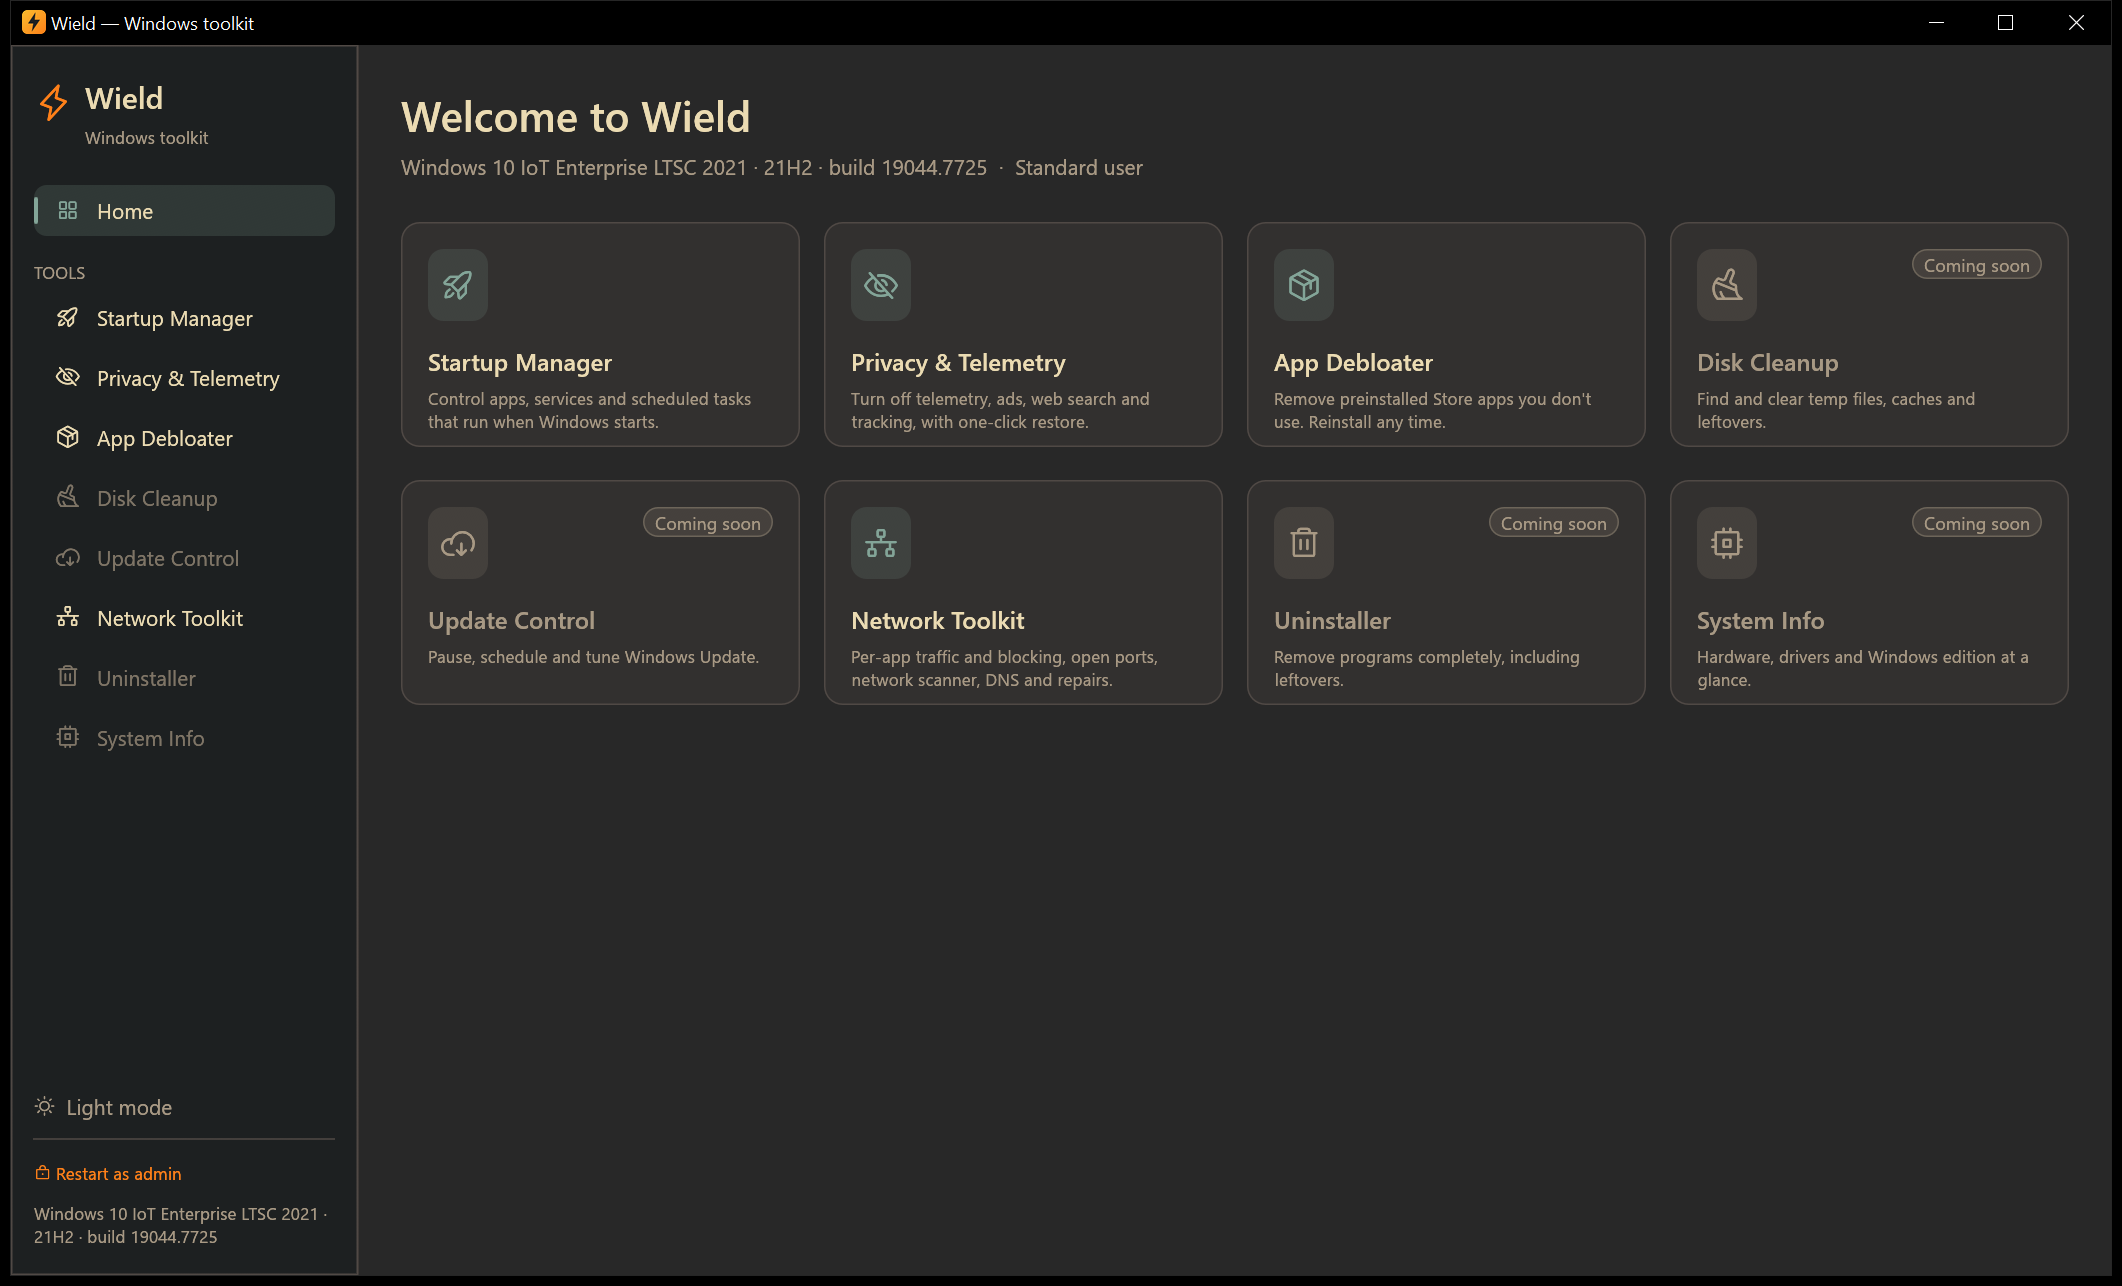
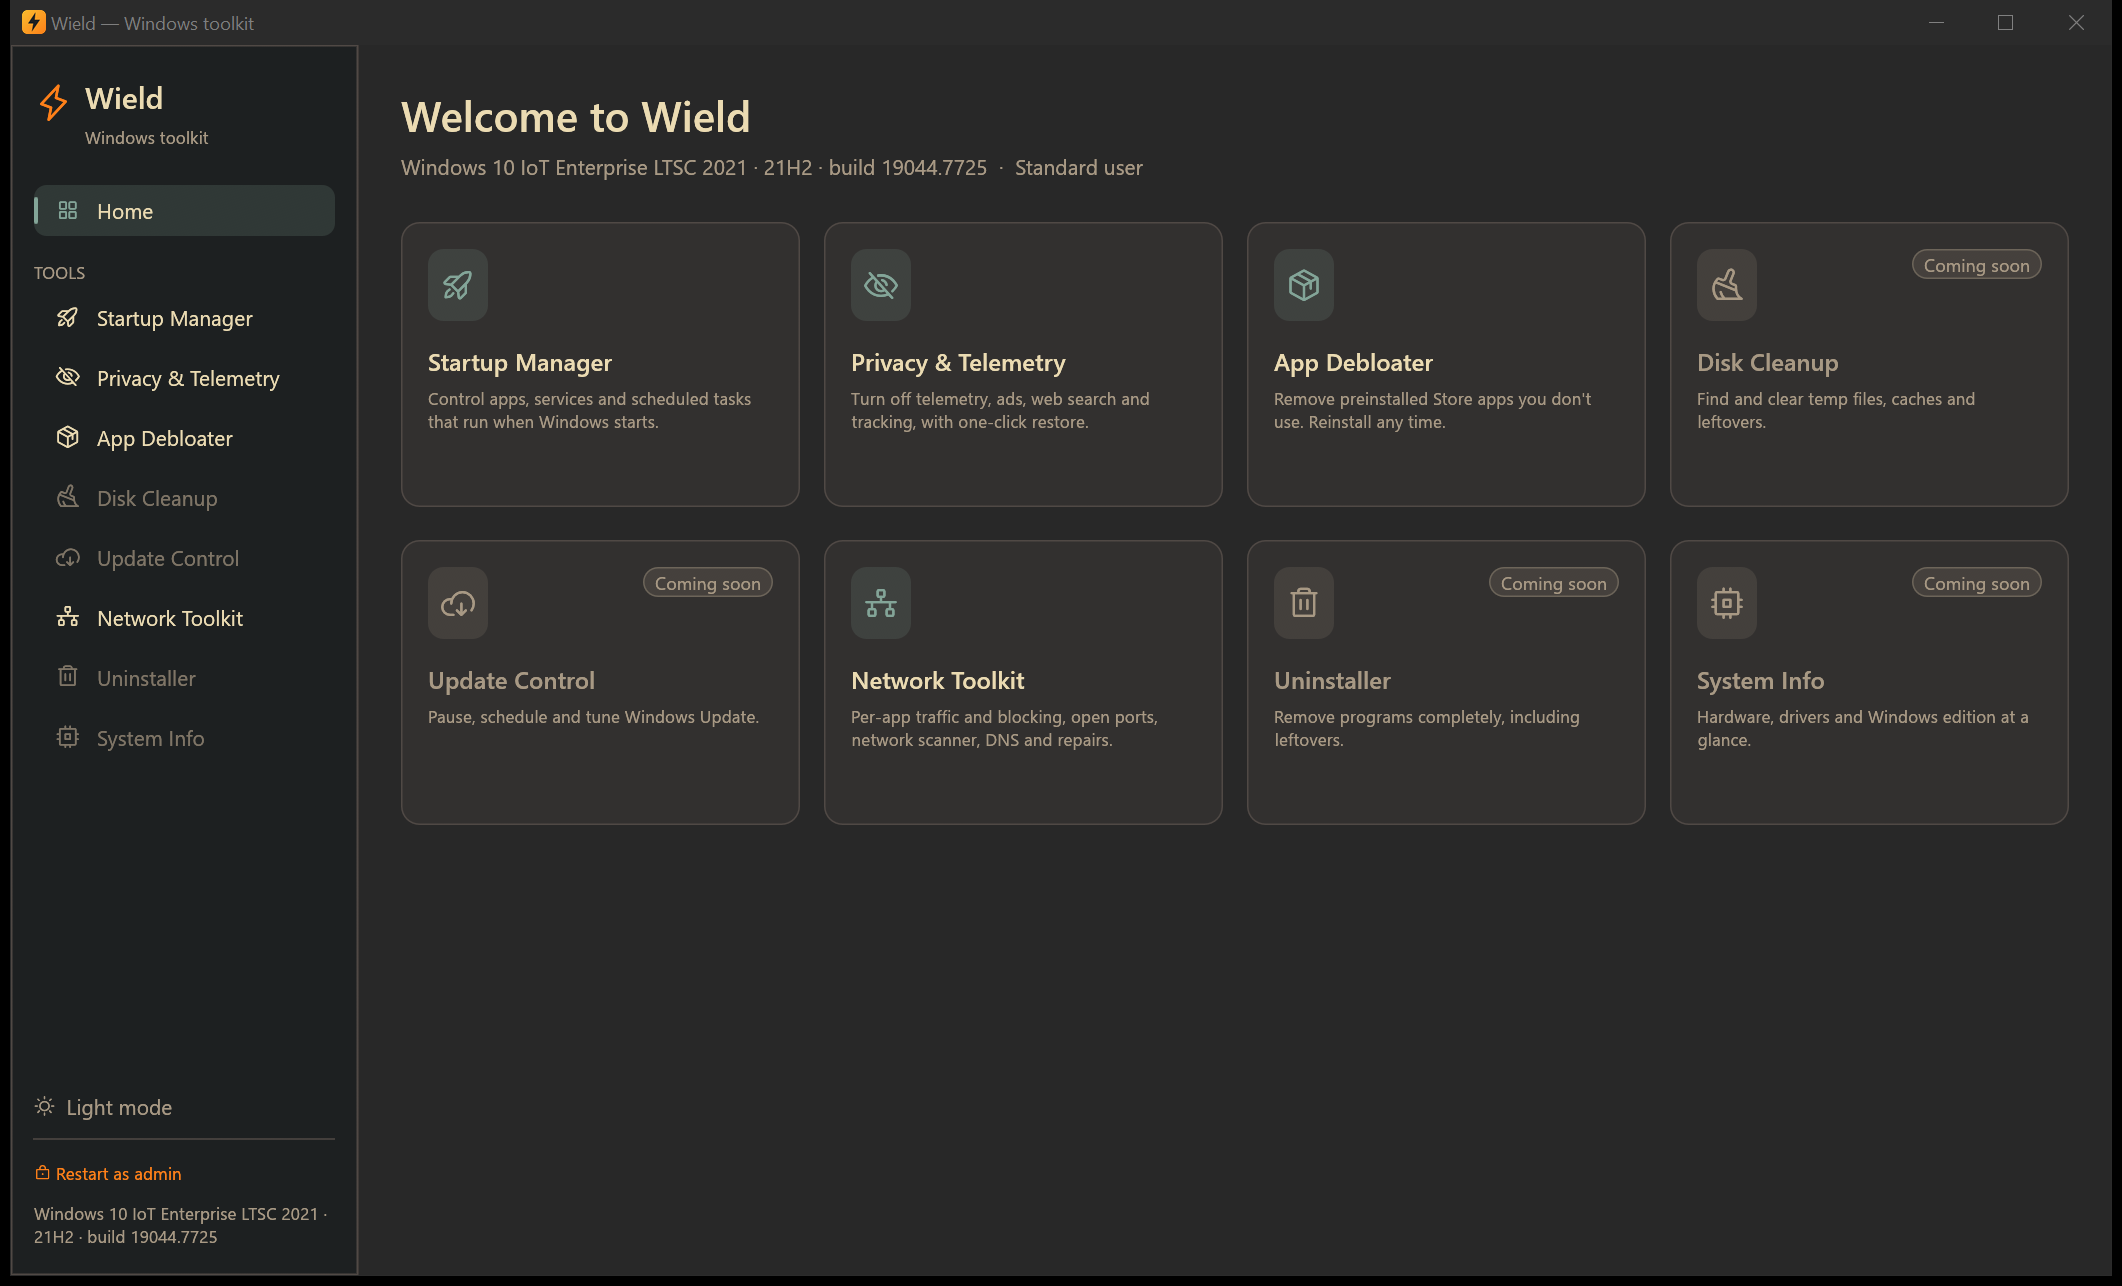
Keep tool card status line inside the card with spacing

diff --git a/src/app.rs b/src/app.rs
@@ -179,7 +179,7 @@ impl WieldApp {
     /// Draws one home-grid card. Returns true when clicked.
     fn tool_card(&self, ui: &mut Ui, t: &ToolInfo, width: f32) -> bool {
         let available = t.id.is_some();
-        let (rect, resp) = ui.allocate_exact_size(vec2(width, 150.0), if available { Sense::click() } else { Sense::hover() });
+        let (rect, resp) = ui.allocate_exact_size(vec2(width, 190.0), if available { Sense::click() } else { Sense::hover() });
         let hovered = resp.hovered() && available;
         let fill = if hovered { theme::card_hover() } else { theme::card() };
         let stroke = if hovered { Stroke::new(1.5, theme::accent()) } else { Stroke::new(1.0, theme::border()) };
@@ -210,8 +210,15 @@ impl WieldApp {
             Some(ToolId::Network) => self.network.summary_line(),
             None => None,
         };
+        // Live status sits on its own line at the bottom of the card, above a divider.
         if let Some(s) = summary {
-            child.label(RichText::new(s).small().color(theme::accent()));
+            let inner = rect.shrink(18.0);
+            let line_y = inner.bottom() - 26.0;
+            ui.painter().hline(inner.x_range(), line_y, Stroke::new(1.0, theme::border()));
+            let mut foot = ui.new_child(
+                UiBuilder::new().max_rect(egui::Rect::from_min_max(egui::pos2(inner.left(), line_y + 8.0), inner.right_bottom())),
+            );
+            foot.add(egui::Label::new(RichText::new(s).small().color(theme::accent())).truncate());
         }
         if available { resp.on_hover_cursor(egui::CursorIcon::PointingHand).clicked() } else { false }
     }
